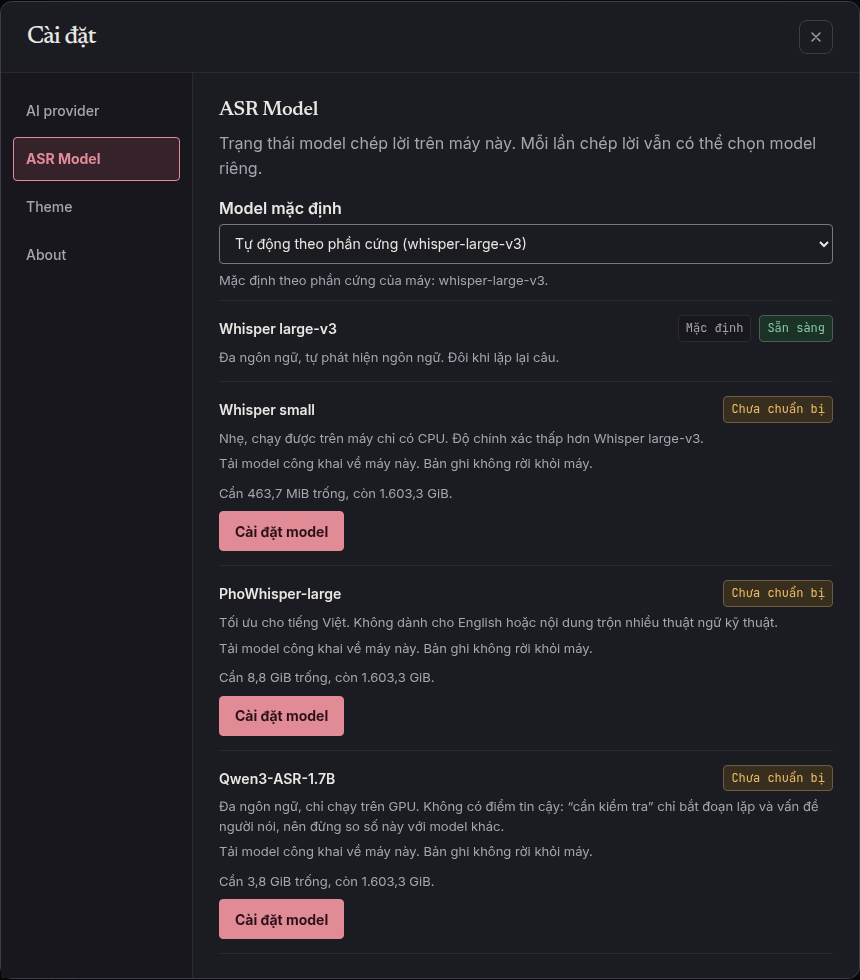
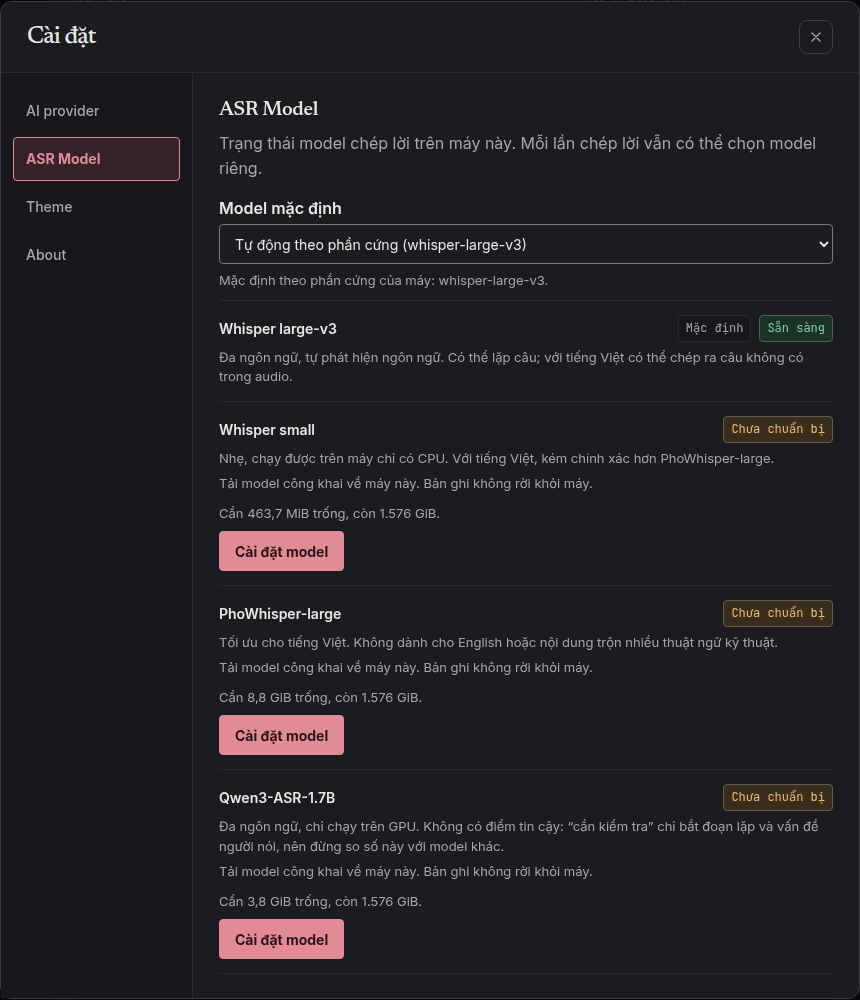
docs: record the ASR measurement for v0.2.1

diff --git a/src/asr_studio/web/i18n.js b/src/asr_studio/web/i18n.js
@@ -491,7 +491,7 @@ const { t, UI_LOCALE } = (() => {
       "Theo phần cứng của máy.": "Follows this machine's hardware.",
       "Model đã chọn chưa được chuẩn bị. Tải lại trang để xem cách chuẩn bị, hoặc chọn model khác.": "The selected model is not prepared. Reload the page to see how to prepare it, or choose another model.",
       "Model đã chọn chỉ chạy trên GPU NVIDIA. Hãy chọn model khác.": "The selected model runs only on an NVIDIA GPU. Choose another model.",
-      "Đa ngôn ngữ, tự phát hiện ngôn ngữ. Đôi khi lặp lại câu.": "Multilingual with language detection. Sometimes repeats sentences.",
+      "Đa ngôn ngữ, tự phát hiện ngôn ngữ. Có thể lặp câu; với tiếng Việt có thể chép ra câu không có trong audio.": "Multilingual with language detection. It can repeat sentences, and on Vietnamese it can return text that is not in the audio.",
       "Model mặc định": "Default model",
       "Không đọc được model mặc định đã lưu, nên đang dùng theo phần cứng của máy. Hãy chọn lại.": "The saved default model could not be read, so this machine's hardware decides for now. Choose it again.",
       "Model mặc định chưa chạy được trên máy này: cuộc họp vẫn được lưu nhưng chưa chép lời. Mở Cài đặt → ASR Model để sửa.": "The default model cannot run on this machine now: the meeting is saved but not transcribed. Open Settings → ASR Model to fix it.",
@@ -506,7 +506,7 @@ const { t, UI_LOCALE } = (() => {
       "Worker chưa sẵn sàng nên chưa đổi được model mặc định.": "The worker is not ready, so the default model cannot change yet.",
       "Chưa đổi được model mặc định. Hãy thử lại.": "The default model did not change. Try again.",
       "Theo Cài đặt: {model}.": "From Settings: {model}.",
-      "Nhẹ, chạy được trên máy chỉ có CPU. Độ chính xác thấp hơn Whisper large-v3.": "Light, and runs on a CPU-only machine. Less accurate than Whisper large-v3.",
+      "Nhẹ, chạy được trên máy chỉ có CPU. Với tiếng Việt, kém chính xác hơn PhoWhisper-large.": "Light, and runs on a CPU-only machine. Less accurate than PhoWhisper-large on Vietnamese.",
       "Tối ưu cho tiếng Việt. Không dành cho English hoặc nội dung trộn nhiều thuật ngữ kỹ thuật.": "Optimized for Vietnamese. Not meant for English or content that mixes in many technical terms.",
       "Đa ngôn ngữ, chỉ chạy trên GPU. Không có điểm tin cậy: “cần kiểm tra” chỉ bắt đoạn lặp và vấn đề người nói, nên đừng so số này với model khác.": "Multilingual, GPU only. It has no confidence score: “to review” only catches repetition and speaker issues, so do not compare that count with other models.",
       "“cần kiểm tra” không xét độ tin cậy của chữ": "“to review” ignores text confidence",

diff --git a/src/asr_studio/web/shell-core.js b/src/asr_studio/web/shell-core.js
@@ -14,8 +14,8 @@ export const AUTO_TRANSCRIBE_HANDOFF_PREFIX = "asr-studio:auto-transcribe:";
 const t = (text, params) => (params ? { text, params } : { text });
 export const ASR_MODEL_TEXT = {
   auto: { label: t("Tự động") },
-  "whisper-large-v3": { label: "Whisper large-v3", note: t("Đa ngôn ngữ, tự phát hiện ngôn ngữ. Đôi khi lặp lại câu.") },
-  "whisper-small": { label: "Whisper small", note: t("Nhẹ, chạy được trên máy chỉ có CPU. Độ chính xác thấp hơn Whisper large-v3.") },
+  "whisper-large-v3": { label: "Whisper large-v3", note: t("Đa ngôn ngữ, tự phát hiện ngôn ngữ. Có thể lặp câu; với tiếng Việt có thể chép ra câu không có trong audio.") },
+  "whisper-small": { label: "Whisper small", note: t("Nhẹ, chạy được trên máy chỉ có CPU. Với tiếng Việt, kém chính xác hơn PhoWhisper-large.") },
   "pho-whisper-large": { label: "PhoWhisper-large", note: t("Tối ưu cho tiếng Việt. Không dành cho English hoặc nội dung trộn nhiều thuật ngữ kỹ thuật.") },
   "qwen3-asr-1.7b": { label: "Qwen3-ASR-1.7B", note: t("Đa ngôn ngữ, chỉ chạy trên GPU. Không có điểm tin cậy: “cần kiểm tra” chỉ bắt đoạn lặp và vấn đề người nói, nên đừng so số này với model khác.") },
 };

diff --git a/tests/test_browser_asr_install.py b/tests/test_browser_asr_install.py
@@ -100,7 +100,9 @@ def status(row):
 
 
 def pho_row(page):
-    return asr_rows(page).filter(has_text="PhoWhisper")
+    return page.locator(
+        f'#asr-models > li[data-model="{PHO}"]'
+    )  # other rows name it in their notes
 
 
 def open_asr(page, live):

diff --git a/docs/release/performance-v0.2.1.md b/docs/release/performance-v0.2.1.md
@@ -1,0 +1,86 @@
+# ASR measurement for v0.2.1
+
+v0.2.1 is the first release with four selectable ASR models. This is a short measurement of quality, speed and memory for each one. It is a quick reference, not a full benchmark.
+
+## Setup
+
+| Field | Value |
+| --- | --- |
+| Commit | `188f172293bd122ab4ed91b5630d251e4749feef` |
+| Date | 2026-11-05 |
+| GPU | NVIDIA GeForce RTX 5080, 16 GB, driver 590.48.01 |
+| CPU | AMD Ryzen 9 9950X, 16 cores, 60 GB RAM |
+| Path | The real product: a built image, Compose, one real task per cell |
+
+The clips hold the first utterances of each set in file order, in one 16 kHz mono file with 0.5 s of silence between them. GPU clips last about 3 minutes and CPU clips about 1 minute. CPU and GPU clips hold different utterances, so do not compare their WER.
+
+WER and CER use Unicode NFC, lowercase and no punctuation. Numerals and spelling variants are not unified, so some errors are only orthographic.
+
+| Set | Source | Revision | Language | Licence |
+| --- | --- | --- | --- | --- |
+| Vietnamese, read sentences | [VIVOS test](https://huggingface.co/datasets/ademax/vivos-vie-speech2text), community copy | `1c937fd` | Vietnamese | Original VIVOS: CC BY-NC-SA 4.0 |
+| Vietnamese, conversation | [VietMed test](https://huggingface.co/datasets/leduckhai/VietMed) | `f302146` | Vietnamese, medical | MIT |
+| Mixed | [ViMedCSS test](https://huggingface.co/datasets/tensorxt/ViMedCSS), community copy | `b6959a1` | Vietnamese with English terms, medical | CC BY 4.0 |
+| English | [LibriSpeech dummy](https://huggingface.co/datasets/hf-internal-testing/librispeech_asr_dummy) | `5be9148` | English | Dataset's own |
+
+## Results on GPU
+
+Lower is better. Whisper models use `float16` and Qwen3-ASR uses `bfloat16`.
+
+| WER | Whisper large-v3 | Whisper small | PhoWhisper-large | Qwen3-ASR-1.7B |
+| --- | --- | --- | --- | --- |
+| Vietnamese, read sentences | 0.190 | 0.251 | **0.035** | 0.050 |
+| Vietnamese, conversation | 0.789 (see below) | 0.201 | **0.056** | 0.059 |
+| Mixed | 0.294 | 0.241 | 0.364 | **0.150** |
+| English | 0.057 | 0.071 | 0.167 | **0.041** |
+
+| Other measures | Whisper large-v3 | Whisper small | PhoWhisper-large | Qwen3-ASR-1.7B |
+| --- | --- | --- | --- | --- |
+| English terms found, mixed set (of 24) | 6 | 4 | 6 | **12** |
+| Transcription stage RTF | 0.055 to 0.126 | 0.035 to 0.047 | 0.062 to 0.080 | 0.016 to 0.022 |
+| Whole task RTF, with diarization | 0.097 to 0.169 | 0.078 to 0.091 | 0.102 to 0.127 | 0.073 to 0.080 |
+| Peak GPU memory for the transcription stage, MiB | 4306 to 5522 | 1010 to 1106 | 4274 | 5320 to 5852 |
+
+RTF is processing time divided by audio length. Whole task RTF includes one model load. Diarization alone peaks at about 4228 MiB, so Whisper small's whole task reaches that.
+
+## Results on CPU
+
+`int8`. Qwen3-ASR-1.7B is refused by design with `model_requires_gpu`.
+
+| WER | Whisper large-v3 | Whisper small | PhoWhisper-large |
+| --- | --- | --- | --- |
+| Vietnamese, read sentences | 0.087 | 0.167 | **0.007** |
+| Vietnamese, conversation | 0.495 | 0.160 | **0.080** |
+| Mixed | 0.485 | **0.234** | 0.491 |
+| English | 0.060 | **0.036** | 0.120 |
+
+| Other measures | Whisper large-v3 | Whisper small | PhoWhisper-large |
+| --- | --- | --- | --- |
+| Whole task RTF | 0.557 to 1.472 | 0.374 to 0.426 | 0.584 to 0.703 |
+| Peak container memory, MiB | 2824 to 4784 | 1767 to 2374 | 2538 to 2842 |
+
+CPU clips hold 34 to 57 s of audio and 83 to 212 reference words. One word changes the read sentences result by 0.007.
+
+## Whisper large-v3 on Vietnamese
+
+Whisper large-v3 scored 0.789 on the conversation clip, with 484 of 692 words deleted and a closing line about subscribing to a channel repeated. The clip is stitched, so a control ran the same 27 utterances in other forms on GPU:
+
+| Form | Whisper large-v3 | Whisper small |
+| --- | --- | --- |
+| Concatenated, 0.5 s gaps | 0.789 | 0.201 |
+| Concatenated in reverse, 0.5 s gaps | 0.152 | 0.324 |
+| Concatenated, 2 s gaps | 0.970 | 0.244 |
+| Each utterance as its own task, pooled | 0.303 | 0.189 |
+| Utterances returning the channel line when alone | **11 of 27** | 0 of 27 |
+
+The result depends on the stitching and is also present without it. **The cause is not known.** This product path runs Whisper with `language=None` and `multilingual=True`, so the language hint does not reach the decoder. These settings match v0.2.0, so this is not a new regression. See [#168](https://github.com/nguyencanhtrung/asr-studio/issues/168).
+
+## Limits
+
+- One clip per set and one measured run per cell. Differences of a few points are not meaningful, and there are no confidence intervals.
+- Whisper large-v3 changed between two runs of the same English clip. Other cells were not repeated.
+- The utterances come from the start of each file and are not a random sample.
+- VIVOS and ViMedCSS are community copies, not checked against the original releases.
+- The mixed and conversation sets are medical. They may not represent business or technical meetings.
+- Stitched utterances are not a real meeting. Real meetings have no reference transcript here.
+- Do not compare these numbers with public leaderboards. The subset, normalization and path differ.

diff --git a/docs/release/notes-v0.2.1.md b/docs/release/notes-v0.2.1.md
@@ -24,11 +24,12 @@ See the [user guide](../user-guide.md#install-a-release).
 - `model-installer` runs all the time, with internet access and write access to `/models`. It has no published port and no access to recordings, transcripts or credentials. `--offline` leaves it stopped.
 - All containers can reach the internet, including `worker`, which holds recordings. `--offline` does not block this. See [Network access](../user-guide.md#network-access).
 - If the default model for this hardware is missing, the worker does not start and Settings offers no install for it. `./scripts/start.sh` prepares it first.
-- Whisper small is visibly less accurate on Vietnamese. This release makes no new ASR quality, diarization accuracy or latency claim.
+- Whisper large-v3, the default on a GPU, can return text that is not in the audio on Vietnamese. In one measurement, 11 of 27 short utterances returned such a line. The cause is not known, and the settings match v0.2.0. For Vietnamese, choose PhoWhisper-large or Qwen3-ASR-1.7B as the default in Settings. [#168](https://github.com/nguyencanhtrung/asr-studio/issues/168)
+- This release makes no general ASR quality or latency claim. See [the measurement](performance-v0.2.1.md) for what was measured and its limits. Diarization accuracy was not measured.
 - Not tested: Safari, and an integrity failure on a real download (automated tests only).
 
 ## Measurements
 
-New measurements: automated tests, browser scenarios and real installs and transcriptions recorded in the release evidence.
+New measurements: [short ASR measurement](performance-v0.2.1.md) of quality, speed and memory for all four models; automated tests, browser scenarios and real installs and transcriptions recorded in the release evidence.
 Reused benchmark evidence: none.
-Omitted measurements: model quality and timing benchmarks, including for Whisper small, PhoWhisper-large and Qwen3-ASR-1.7B.
+Omitted measurements: the full acceptance dataset, long recordings, diarization accuracy and notes quality.

diff --git a/docs/user-guide.md b/docs/user-guide.md
@@ -279,10 +279,12 @@ selector keeps your choice while the page stays open; a new page starts on **Aut
 | Choice           | Use it for                                 | Limits                                                                |
 | ---------------- | ------------------------------------------ | --------------------------------------------------------------------- |
 | Automatic        | The default model from Settings.           | Unless you chose one: `whisper-large-v3` on GPU, `whisper-small` on CPU. |
-| Whisper large-v3 | Multilingual meetings with language detection. | Slowest of the large models, and the most likely to repeat sentences. |
-| Whisper small    | A CPU-only machine.                        | Lower accuracy than Whisper large-v3. |
+| Whisper large-v3 | Multilingual meetings with language detection. | Slowest of the large models and the most likely to repeat sentences. On Vietnamese it can return text that is not in the audio ([#168](https://github.com/nguyencanhtrung/asr-studio/issues/168)). |
+| Whisper small    | A CPU-only machine.                        | Lower accuracy than PhoWhisper-large on Vietnamese and Qwen3-ASR-1.7B overall. |
 | PhoWhisper-large | Meetings in Vietnamese.                    | Not for English or content that mixes in many technical terms. Segments are longer, so speaker labels are coarser. |
 | Qwen3-ASR-1.7B   | Mixed Vietnamese and English, and speed.   | GPU only, about 8.5 GB of VRAM on a 75-minute meeting. No confidence score: **Listen again** only catches repetition and speaker issues, so its count does not compare with other models. |
+
+A [short measurement](release/performance-v0.2.1.md) on public datasets backs these notes, with its limits.
 
 These results come from a few real meetings without a reference transcript, so treat them as a
 starting point and compare on your own recordings.
